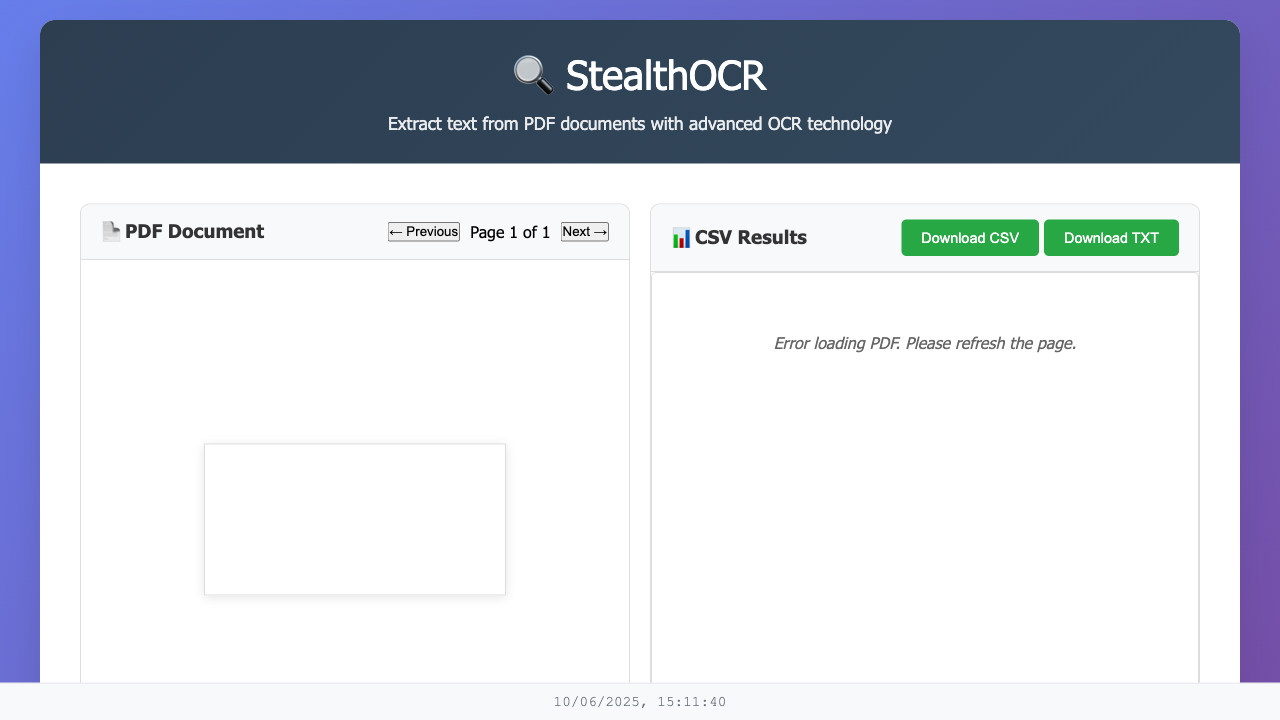
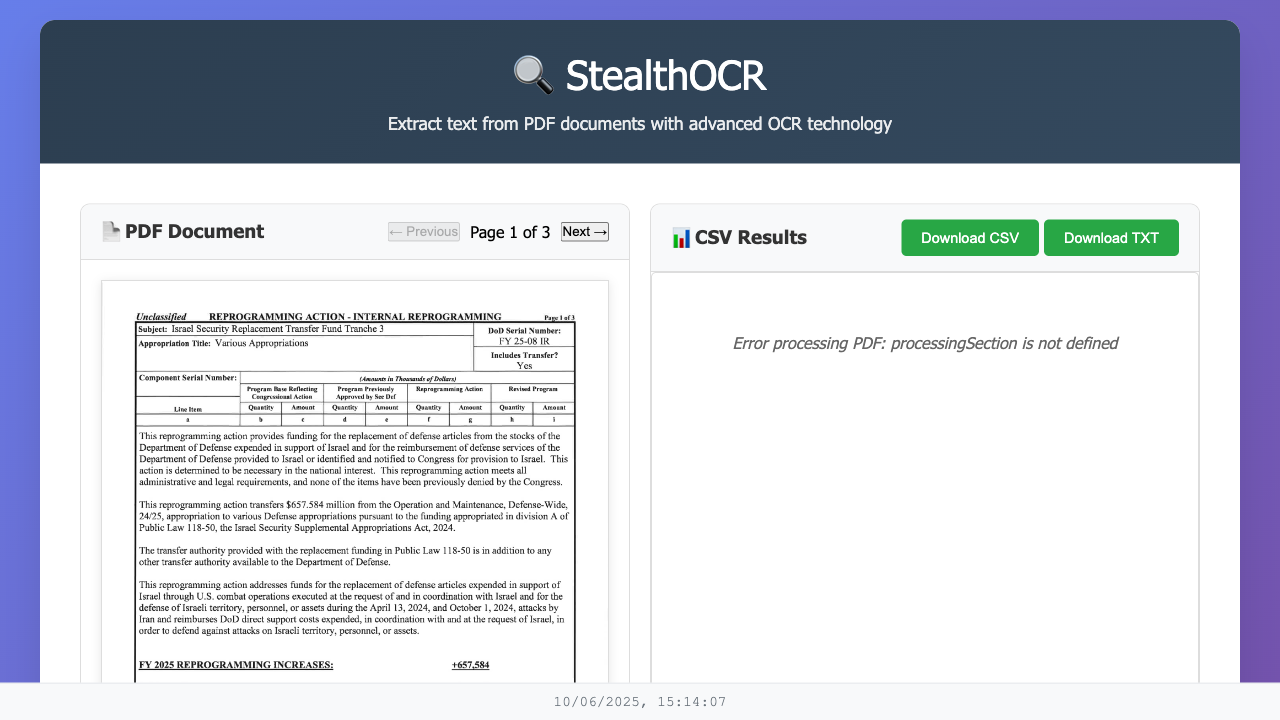
Fix JavaScript error with processingSection
- Fixed hideProcessing() and showProcessing() functions
- Removed references to processingSection element that doesn't exist
- PDF loading and OCR processing now working correctly
- System successfully extracts text from 3-page PDF

diff --git a/index.html b/index.html
@@ -872,14 +872,12 @@ The action is determined to be necessary in the national interest and meets all 
         }
 
         function showProcessing() {
-            uploadSection.style.display = 'none';
-            processingSection.classList.add('show');
-            resultsLayout.classList.remove('show');
+            // Processing section removed in simplified layout
             clearMessages();
         }
 
         function hideProcessing() {
-            processingSection.classList.remove('show');
+            // Processing section removed in simplified layout
         }
 
         function showResults(result) {
